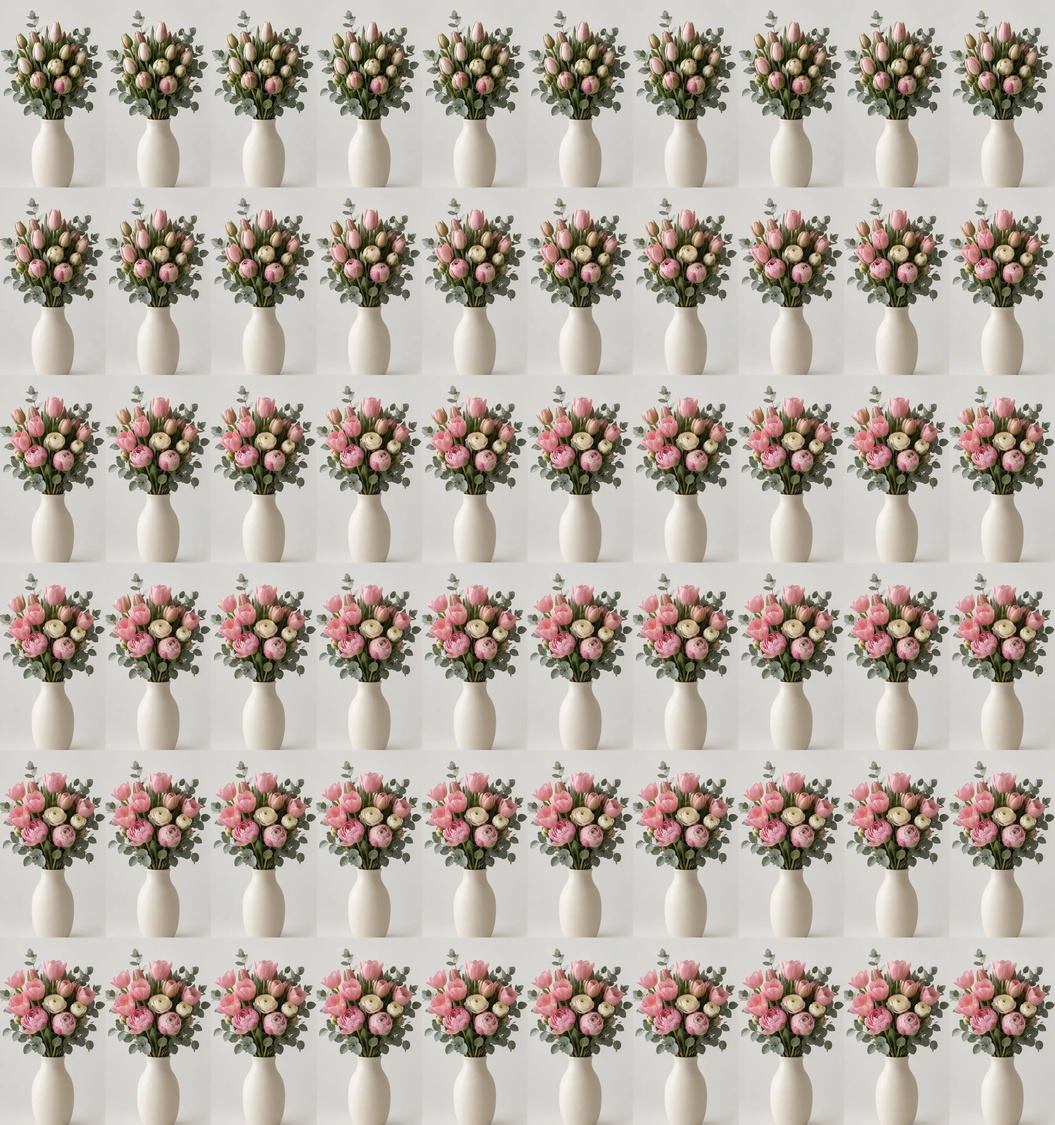
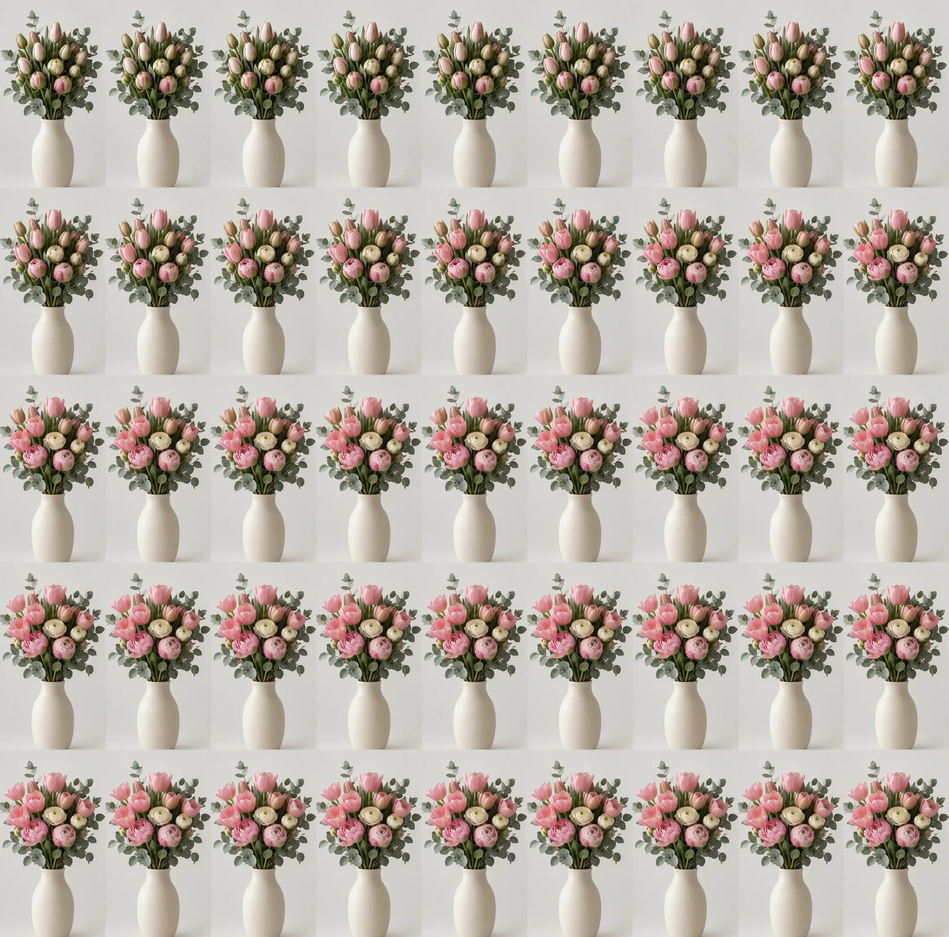
Show the bouquet large on small screens and load it faster
The bouquet moves from a sticky header thumbnail into the hero on small
screens, the sprite sheet drops from 60 to 45 frames, a small first
frame shows while it loads, and the notice says the bouquet is AI-made.

diff --git a/index.html b/index.html
@@ -58,7 +58,7 @@
   .bouquet {
     position: fixed; left: max(24px, calc(50% - 560px)); top: 50%; transform: translateY(-50%);
     width: 300px; aspect-ratio: 9 / 16; pointer-events: none; z-index: 1;
-    border-radius: 150px 150px 24px 24px; overflow: hidden; background: #D8D6D3;
+    border-radius: 150px 150px 24px 24px; overflow: hidden; background: #D8D6D3 url("bloom-first.webp") center / cover no-repeat;
     box-shadow: 0 0 0 8px var(--paper), 0 0 0 10px var(--rose), 0 30px 50px -26px rgba(51, 34, 58, .45);
   }
   .bouquet canvas { display: block; width: 100%; height: 100%; }
@@ -135,11 +135,9 @@
     .wrap { padding-left: 0; }
     section { padding-block: 52px; }
     .hero { padding-block: 24px 60px; }
-    /* Small screens: the header sticks to the top and a small bouquet window sits inside it */
-    header { position: sticky; top: 0; z-index: 5; background: var(--paper); border-bottom: 2px solid var(--line); padding-block: 0; }
-    header .wrap { height: 96px; display: flex; align-items: center; }
-    .bouquet { position: absolute; width: 48px; left: 18px; top: 5px; transform: none; border-radius: 24px 24px 8px 8px; box-shadow: 0 0 0 3px var(--paper), 0 0 0 5px var(--rose); }
-    .bouquet span { display: none; }
+    /* Small screens: the bouquet sits in the hero, large, under the button, and opens as it scrolls into view */
+    header { padding-block: 16px; }
+    .bouquet { position: static; transform: none; width: min(250px, 68%); margin: 44px auto 0; border-radius: 125px 125px 20px 20px; }
     .days, .points { grid-template-columns: 1fr; }
   }
   @media (prefers-reduced-motion: reduce) {
@@ -151,16 +149,11 @@
 <body>
 
 <a class="skip" href="#main">דילוג לתוכן הראשי</a>
-<p class="concept">דף קונספט לדוגמה. העסק, המחיר, ההבטחות וההמלצות בדויים.</p>
+<p class="concept">דף קונספט לדוגמה. העסק, המחיר, ההבטחות וההמלצות בדויים, והזר נוצר ב-AI.</p>
 
 <header>
   <div class="wrap">
     <span class="brand"><i aria-hidden="true"></i>שישי פורח</span>
-  </div>
-  <!-- Decorative bouquet window: 60 frames of a bouquet opening (bloom-video.webp, a 10x6 sprite sheet cut from an
-       AI-generated video). The script below shows the frame that matches the scroll position. -->
-  <div class="bouquet" aria-hidden="true">
-    <canvas width="720" height="1280"></canvas>
   </div>
 </header>
 
@@ -178,6 +171,11 @@
           מצטרפים בוואטסאפ
         </a>
         <small>120 ₪ לזר, כולל משלוח. בלי התחייבות.</small>
+      </div>
+      <!-- Decorative bouquet: 45 frames of a bouquet opening (bloom-video.webp, a 9x5 sprite sheet cut from an AI-generated
+           video), shown by the script below. Wide screens: fixed at the side. Small screens: large, right here in the hero. -->
+      <div class="bouquet" aria-hidden="true">
+        <canvas width="720" height="1280"></canvas>
       </div>
     </div>
   </section>
@@ -273,20 +271,29 @@
     doc.showModal();
   }));
 
-  // The bouquet opens with the scroll: 60 frames of the opening, laid out as a 10x6 sprite sheet.
+  // The bouquet opens with the scroll: 45 frames of the opening, laid out as a 9x5 sprite sheet.
   // The scroll position picks the frame, so scrolling down opens the bouquet and scrolling back up closes it.
-  const FRAMES = 60, COLS = 10, TILE_W = 360, TILE_H = 640;
+  const FRAMES = 45, COLS = 9, TILE_W = 360, TILE_H = 640;
   const canvas = document.querySelector('.bouquet canvas'), ctx = canvas.getContext('2d');
   const sheet = new Image();
   const still = matchMedia('(prefers-reduced-motion: reduce)').matches;
   const clamp = v => Math.max(0, Math.min(1, v));
+  const small = matchMedia('(max-width: 900px)');
   let shown = -1;
+  function progress() {
+    if (still) return 1;
+    if (small.matches) {
+      // small screens: the bouquet is part of the page, so it opens while it travels up the screen
+      const top = canvas.getBoundingClientRect().top;
+      return clamp((innerHeight - top) / (innerHeight * 0.88));
+    }
+    // wide screens: the bouquet is fixed at the side and is fully open by the middle of the page
+    const max = document.documentElement.scrollHeight - innerHeight;
+    return clamp((max > 0 ? scrollY / max : 1) / 0.55);
+  }
   function draw() {
     if (!sheet.complete || !sheet.naturalWidth) return;
-    const max = document.documentElement.scrollHeight - innerHeight;
-    // fully open a little before the end, when the second CTA comes into view
-    const t = still ? 1 : clamp((max > 0 ? scrollY / max : 1) / 0.8);
-    const frame = Math.round(t * (FRAMES - 1));
+    const frame = Math.round(progress() * (FRAMES - 1));
     if (frame === shown) return;
     shown = frame;
     ctx.drawImage(sheet, (frame % COLS) * TILE_W, Math.floor(frame / COLS) * TILE_H, TILE_W, TILE_H, 0, 0, canvas.width, canvas.height);
@@ -296,6 +303,7 @@
   let queued = false;
   addEventListener('scroll', () => { if (!queued) { queued = true; requestAnimationFrame(() => { queued = false; draw(); }); } }, { passive: true });
   addEventListener('resize', draw);
+  small.addEventListener('change', () => { shown = -1; draw(); });
 </script>
 </body>
 </html>
